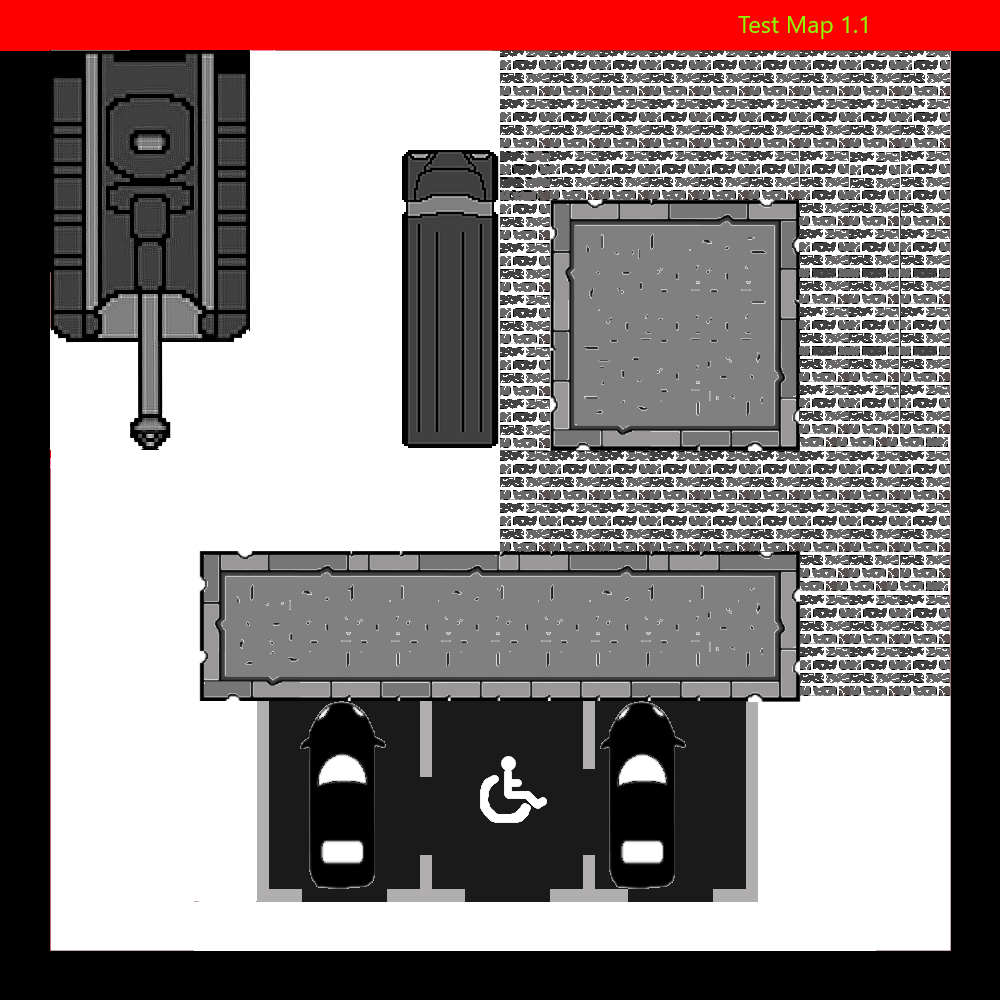
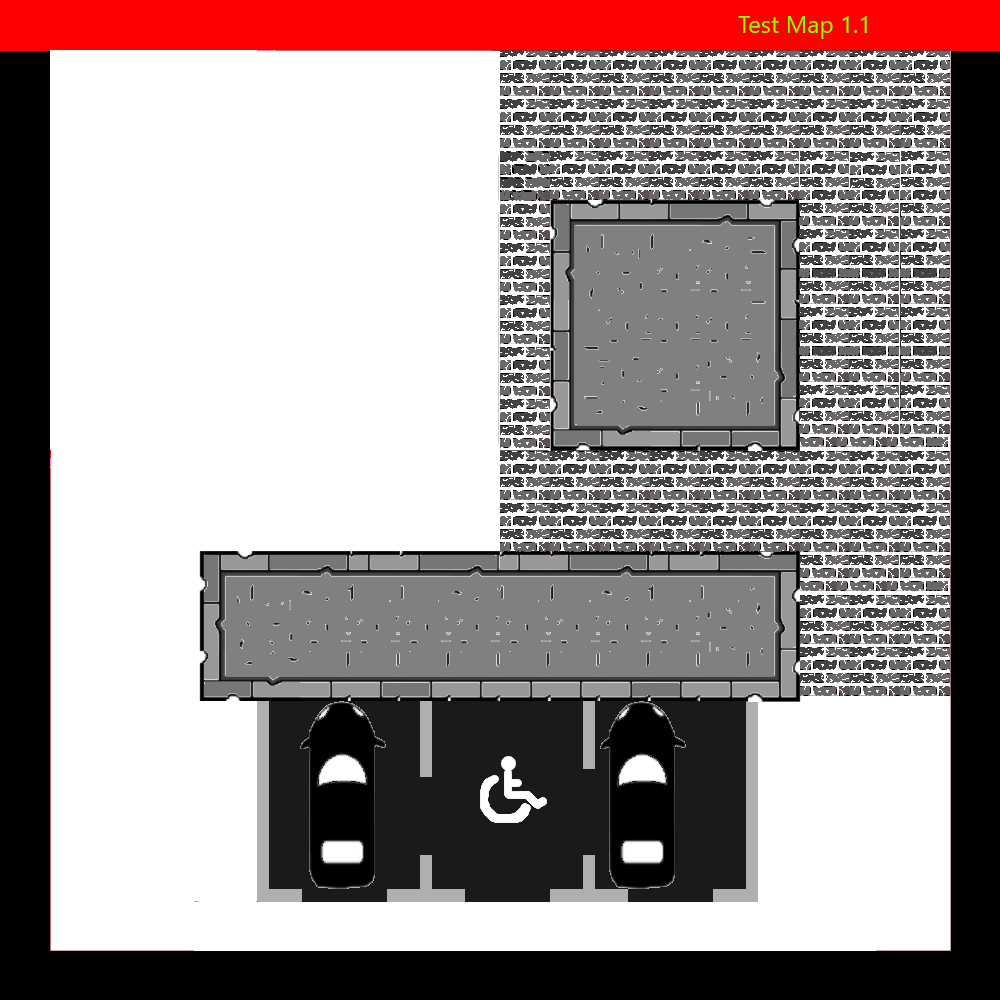
Added floating textures and updated testmap accordingly

Changed region(s): [[0.031, 0.031, 0.248, 0.465], [0.403, 0.124, 0.496, 0.465]]

diff --git a/Sombi/Sombi/FloatingTextures.cs b/Sombi/Sombi/FloatingTextures.cs
@@ -10,11 +10,10 @@ namespace Sombi
 {
     class FloatingTextures
     {
-
         List<Vector2> cloud1, cloud2, cloud3, cloud4;
         int cloud1Spc, cloud2Spc, cloud3Spc, cloud4Spc;
         float cloud1Speed, cloud2Speed, cloud3Speed, cloud4Speed;
-        Texture2D[] tex;
+        Texture2D[] cloudTex;
         Color color = Color.White;
         
         int height = 1000;
@@ -22,38 +21,66 @@ namespace Sombi
 
         public FloatingTextures()
         {
-            this.tex = new Texture2D[4];
-            tex[0] = TextureLibrary.cloud1Tex;
-            tex[1] = TextureLibrary.cloud2Tex;
-            tex[2] = TextureLibrary.cloud3Tex;
-            tex[3] = TextureLibrary.cloud4Tex;
+            this.cloudTex = new Texture2D[4];
+            cloudTex[0] = TextureLibrary.cloud1Tex;
+            cloudTex[1] = TextureLibrary.cloud2Tex;
+            cloudTex[2] = TextureLibrary.cloud3Tex;
+            cloudTex[3] = TextureLibrary.cloud4Tex;
 
             cloud1 = new List<Vector2>();
             cloud1Spc = width * 2;
             cloud1Speed = 0.65f;
             for (int i = 0; i < (width / cloud1Spc) + 2; i++)
-                cloud1.Add(new Vector2(i * cloud1Spc, height - tex[0].Height - 10));
+                cloud1.Add(new Vector2(i * cloud1Spc, height - cloudTex[0].Height - 10));
 
             cloud2 = new List<Vector2>();
             cloud2Spc = width * 1;
             cloud2Speed = 0.35f;
             for (int i = 0; i < (width / cloud2Spc) + 2; i++)
-                cloud2.Add(new Vector2(i * cloud2Spc, height - tex[0].Height - tex[1].Height));
+                cloud2.Add(new Vector2(i * cloud2Spc, height - cloudTex[0].Height - cloudTex[1].Height));
 
             cloud3 = new List<Vector2>();
             cloud3Spc = width * 4;
             cloud3Speed = 0.7f;
             for (int i = 0; i < (width / cloud3Spc) + 2; i++)
-                cloud3.Add(new Vector2(i * cloud3Spc, height - tex[0].Height - (int)(tex[2].Height * 2)));
+                cloud3.Add(new Vector2(i * cloud3Spc, height - cloudTex[0].Height - (int)(cloudTex[2].Height * 2)));
 
             cloud4 = new List<Vector2>();
             cloud4Spc = width * 3;
             cloud4Speed = 0.55f;
             for (int i = 0; i < (width / cloud4Spc) + 20; i++)
-                cloud4.Add(new Vector2(i * cloud4Spc, height - tex[0].Height - (int)(tex[3].Height * 3.25)));       
-        }
-          
+                cloud4.Add(new Vector2(i * cloud4Spc, height - cloudTex[0].Height - (int)(cloudTex[3].Height * 3.25)));       
+        }          
         public void Update()
+        {
+            UpdateClouds();  
+        }
+        public void Draw(SpriteBatch spriteBatch)
+        {
+            DrawClouds(spriteBatch);
+            spriteBatch.Draw(TextureLibrary.tankTex, new Vector2(50,50), null, Color.White, 0, Vector2.Zero, 1f, SpriteEffects.FlipVertically, 0f);
+            spriteBatch.Draw(TextureLibrary.busTex, new Vector2(400, 150), null, Color.White, 0, Vector2.Zero, 1f, SpriteEffects.None, 0f);
+        }
+        public void DrawClouds(SpriteBatch spriteBatch)
+        {
+            foreach (Vector2 v in cloud1)
+            {
+                spriteBatch.Draw(cloudTex[0], v, color * 0.6f);
+            }
+            foreach (Vector2 v in cloud2)
+            {
+                spriteBatch.Draw(cloudTex[1], v, color * 0.6f);
+            }
+            foreach (Vector2 v in cloud3)
+            {
+                spriteBatch.Draw(cloudTex[2], v, color * 0.6f);
+            }
+            foreach (Vector2 v in cloud4)
+            {
+                spriteBatch.Draw(cloudTex[3], v, color * 0.6f);
+            }
+        }
+        public void UpdateClouds()
         {
             for (int i = 0; i < cloud1.Count; i++)
             {
@@ -106,25 +133,6 @@ namespace Sombi
                     }
                     cloud4[i] = new Vector2(cloud4[j].X + cloud4Spc - 1, cloud4[i].Y);
                 }
-            }
-        }
-        public void Draw(SpriteBatch spriteBatch)
-        {
-            foreach (Vector2 v in cloud1)
-            {
-                spriteBatch.Draw(tex[0], v, color * 0.6f);
-            }
-            foreach (Vector2 v in cloud2)
-            {
-                spriteBatch.Draw(tex[1], v, color * 0.6f);
-            }
-            foreach (Vector2 v in cloud3)
-            {
-                spriteBatch.Draw(tex[2], v, color * 0.6f);
-            }
-            foreach (Vector2 v in cloud4)
-            {
-                spriteBatch.Draw(tex[3], v, color * 0.6f);
             }
         }
     }

diff --git a/Sombi/Sombi/Library/TextureLibrary.cs b/Sombi/Sombi/Library/TextureLibrary.cs
@@ -18,6 +18,11 @@ namespace Sombi
                 
         //Structures and Objects
         public static Texture2D packageTex { get; private set; }
+        public static Texture2D tankTex { get; private set; }
+        public static Texture2D carTex { get; private set; }
+        public static Texture2D busTex { get; private set; }
+
+        //Floating Objects
         public static Texture2D cloud1Tex { get; private set; }
         public static Texture2D cloud2Tex { get; private set; }
         public static Texture2D cloud3Tex { get; private set; }
@@ -51,6 +56,11 @@ namespace Sombi
             
             //Structures and Objects
             packageTex = Content.Load<Texture2D>("Package");
+            tankTex = Content.Load<Texture2D>("tank1");
+            carTex = Content.Load<Texture2D>("Car1");
+            busTex = Content.Load<Texture2D>("Bus1");
+
+            //Floating Objects
             cloud1Tex = Content.Load<Texture2D>("Cloud1");
             cloud2Tex = Content.Load<Texture2D>("Cloud2");
             cloud3Tex = Content.Load<Texture2D>("Cloud3");
@@ -71,19 +81,17 @@ namespace Sombi
             
             //Map and UI
             testMapTex = Content.Load<Texture2D>(@"TestMap2");
+            logoTex = Content.Load<Texture2D>(@"Logo1Sombi");
             startButton = Content.Load<Texture2D>(@"Play");
             settingButton = Content.Load<Texture2D>(@"Settings");
             highscoreButton = Content.Load<Texture2D>(@"Highscore");
             exitButton = Content.Load<Texture2D>(@"Exit");            
-            
+                        
             //Spritefonts
-            //logoTex = Content.Load<Texture2D>(@"Logo");
             HUDText = Content.Load<SpriteFont>(@"HUDText");
             
             //Miscellaneous
             sourceRectTex = Content.Load<Texture2D>(@"Rectangle");
-            exitButton = Content.Load<Texture2D>(@"Exit");
-            logoTex = Content.Load<Texture2D>(@"Logo1Sombi");
         }
     }
 }

diff --git a/Sombi/Sombi/AnimationPlayer.cs b/Sombi/Sombi/AnimationPlayer.cs
@@ -61,7 +61,7 @@ namespace Sombi
             if (animation != null)
             {
                 Rectangle rectangle = new Rectangle(frameIndex * animation.frameWidth, 0, animation.frameWidth, animation.frameHeight);
-
+                
                 spriteBatch.Draw(animation.Texture, position, rectangle, Color.White, rotation, Origin, 1f, SpriteEffects.None, 0f);
             }
         }
